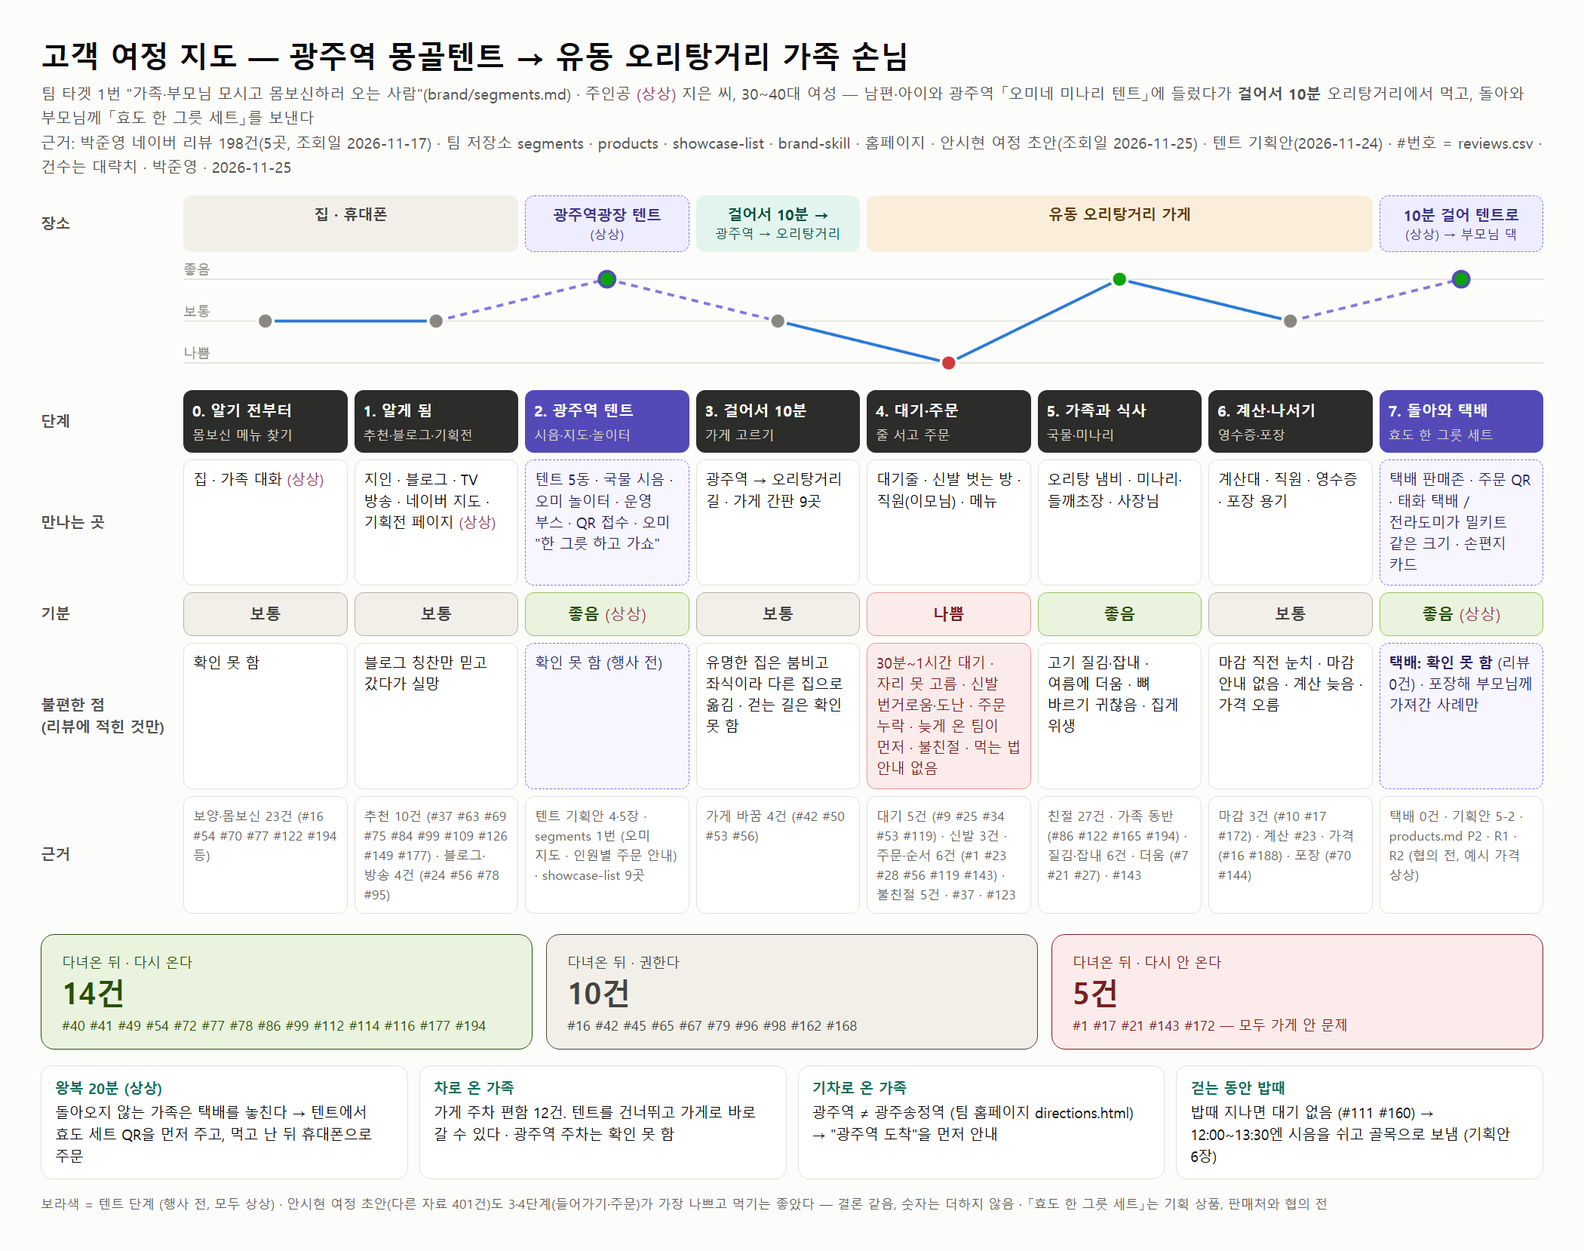
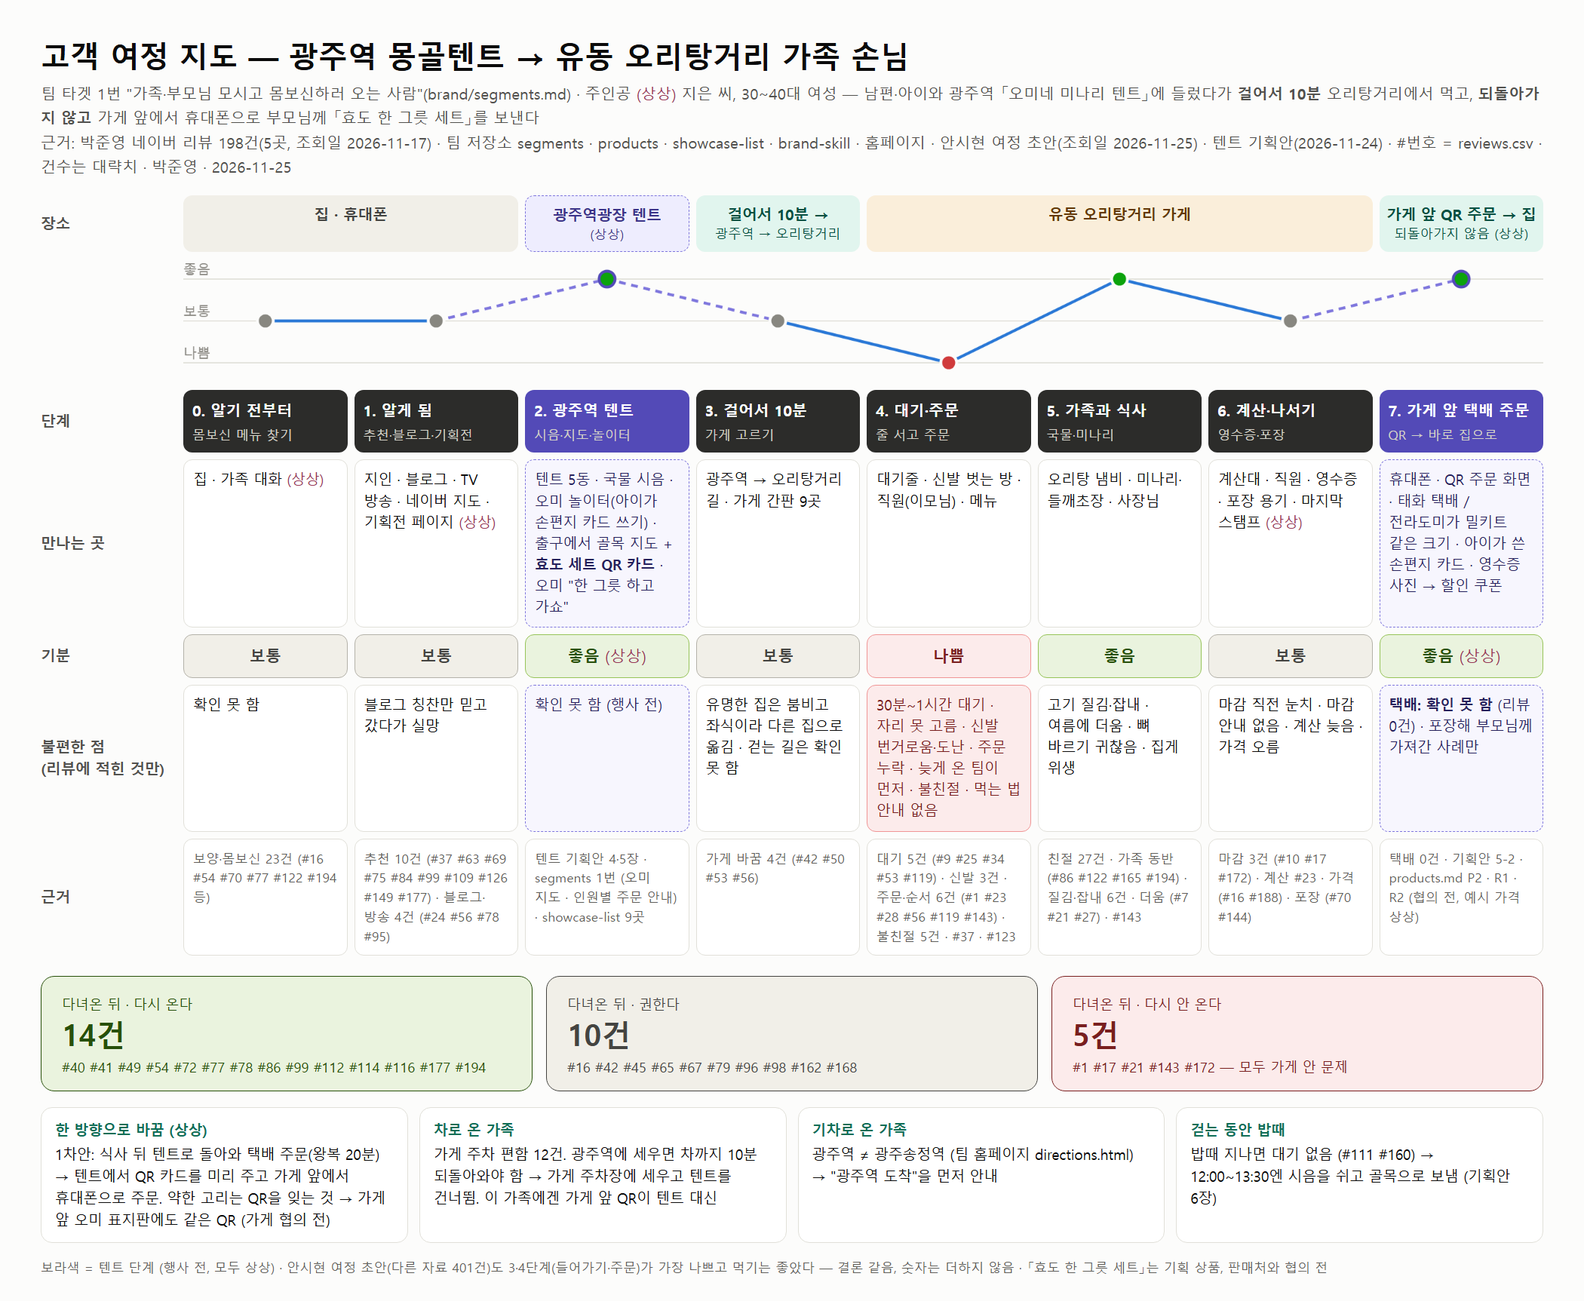
박준영 journey/my-journey 동선 변경 (텐트로 되돌아가지 않는 한 방향: 광주역 텐트 → 가게 → 가게 앞 QR 택배 주문 → 집)

diff --git a/박준영/journey/my-journey.html b/박준영/journey/my-journey.html
@@ -32,14 +32,14 @@ h1{font-size:26px;margin:0 0 6px}
 .foot{font-size:11.5px;color:#5F5E5A;margin-top:12px;line-height:1.6}
 </style></head><body><div id="cap">
 <h1>고객 여정 지도 — 광주역 몽골텐트 → 유동 오리탕거리 가족 손님</h1>
-<p class="sub">팀 타겟 1번 "가족·부모님 모시고 몸보신하러 오는 사람"(brand/segments.md) · 주인공 <span class="sang">(상상)</span> 지은 씨, 30~40대 여성 — 남편·아이와 광주역 「오미네 미나리 텐트」에 들렀다가 <b>걸어서 10분</b> 오리탕거리에서 먹고, 돌아와 부모님께 「효도 한 그릇 세트」를 보낸다<br>근거: 박준영 네이버 리뷰 198건(5곳, 조회일 2026-11-17) · 팀 저장소 segments · products · showcase-list · brand-skill · 홈페이지 · 안시현 여정 초안(조회일 2026-11-25) · 텐트 기획안(2026-11-24) · #번호 = reviews.csv · 건수는 대략치 · 박준영 · 2026-11-25</p>
+<p class="sub">팀 타겟 1번 "가족·부모님 모시고 몸보신하러 오는 사람"(brand/segments.md) · 주인공 <span class="sang">(상상)</span> 지은 씨, 30~40대 여성 — 남편·아이와 광주역 「오미네 미나리 텐트」에 들렀다가 <b>걸어서 10분</b> 오리탕거리에서 먹고, <b>되돌아가지 않고</b> 가게 앞에서 휴대폰으로 부모님께 「효도 한 그릇 세트」를 보낸다<br>근거: 박준영 네이버 리뷰 198건(5곳, 조회일 2026-11-17) · 팀 저장소 segments · products · showcase-list · brand-skill · 홈페이지 · 안시현 여정 초안(조회일 2026-11-25) · 텐트 기획안(2026-11-24) · #번호 = reviews.csv · 건수는 대략치 · 박준영 · 2026-11-25</p>
 <div class="route">
 <div class="h">장소</div>
 <div class="loc home" style="grid-column:span 2">집 · 휴대폰</div>
 <div class="loc tent">광주역광장 텐트<small>(상상)</small></div>
 <div class="loc walk">걸어서 10분 →<small>광주역 → 오리탕거리</small></div>
 <div class="loc shop" style="grid-column:span 3">유동 오리탕거리 가게</div>
-<div class="loc tent">10분 걸어 텐트로<small>(상상) → 부모님 댁</small></div>
+<div class="loc walk">가게 앞 QR 주문 → 집<small>되돌아가지 않음 (상상)</small></div>
 </div>
 <div style="position:relative;height:110px;margin:0 0 6px 126px"><canvas id="c"></canvas></div>
 <div class="grid">
@@ -51,17 +51,17 @@ h1{font-size:26px;margin:0 0 6px}
 <div class="st">4. 대기·주문<small>줄 서고 주문</small></div>
 <div class="st">5. 가족과 식사<small>국물·미나리</small></div>
 <div class="st">6. 계산·나서기<small>영수증·포장</small></div>
-<div class="st t">7. 돌아와 택배<small>효도 한 그릇 세트</small></div>
+<div class="st t">7. 가게 앞 택배 주문<small>QR → 바로 집으로</small></div>
 
 <div class="h">만나는 곳</div>
 <div class="c">집 · 가족 대화 <span class="sang">(상상)</span></div>
 <div class="c">지인 · 블로그 · TV 방송 · 네이버 지도 · 기획전 페이지 <span class="sang">(상상)</span></div>
-<div class="c tent">텐트 5동 · 국물 시음 · 오미 놀이터 · 운영 부스 · QR 접수 · 오미 "한 그릇 하고 가쇼"</div>
+<div class="c tent">텐트 5동 · 국물 시음 · 오미 놀이터(아이가 손편지 카드 쓰기) · 출구에서 골목 지도 + <b>효도 세트 QR 카드</b> · 오미 "한 그릇 하고 가쇼"</div>
 <div class="c">광주역 → 오리탕거리 길 · 가게 간판 9곳</div>
 <div class="c">대기줄 · 신발 벗는 방 · 직원(이모님) · 메뉴</div>
 <div class="c">오리탕 냄비 · 미나리·들깨초장 · 사장님</div>
-<div class="c">계산대 · 직원 · 영수증 · 포장 용기</div>
-<div class="c tent">택배 판매존 · 주문 QR · 태화 택배 / 전라도미가 밀키트 같은 크기 · 손편지 카드</div>
+<div class="c">계산대 · 직원 · 영수증 · 포장 용기 · 마지막 스탬프 <span class="sang">(상상)</span></div>
+<div class="c tent">휴대폰 · QR 주문 화면 · 태화 택배 / 전라도미가 밀키트 같은 크기 · 아이가 쓴 손편지 카드 · 영수증 사진 → 할인 쿠폰</div>
 
 <div class="h">기분</div>
 <div class="c mid mood">보통</div>
@@ -99,8 +99,8 @@ h1{font-size:26px;margin:0 0 6px}
 <div class="end bad"><span>다녀온 뒤 · 다시 안 온다</span><b>5건</b><span>#1 #17 #21 #143 #172 — 모두 가게 안 문제</span></div>
 </div>
 <div class="notes">
-<div class="note"><b>왕복 20분 (상상)</b>돌아오지 않는 가족은 택배를 놓친다 → 텐트에서 효도 세트 QR을 먼저 주고, 먹고 난 뒤 휴대폰으로 주문</div>
-<div class="note"><b>차로 온 가족</b>가게 주차 편함 12건. 텐트를 건너뛰고 가게로 바로 갈 수 있다 · 광주역 주차는 확인 못 함</div>
+<div class="note"><b>한 방향으로 바꿈 (상상)</b>1차안: 식사 뒤 텐트로 돌아와 택배 주문(왕복 20분) → 텐트에서 QR 카드를 미리 주고 가게 앞에서 휴대폰으로 주문. 약한 고리는 QR을 잊는 것 → 가게 앞 오미 표지판에도 같은 QR (가게 협의 전)</div>
+<div class="note"><b>차로 온 가족</b>가게 주차 편함 12건. 광주역에 세우면 차까지 10분 되돌아와야 함 → 가게 주차장에 세우고 텐트를 건너뜀. 이 가족에겐 가게 앞 QR이 텐트 대신</div>
 <div class="note"><b>기차로 온 가족</b>광주역 ≠ 광주송정역 (팀 홈페이지 directions.html) → "광주역 도착"을 먼저 안내</div>
 <div class="note"><b>걷는 동안 밥때</b>밥때 지나면 대기 없음 (#111 #160) → 12:00~13:30엔 시음을 쉬고 골목으로 보냄 (기획안 6장)</div>
 </div>

diff --git a/박준영/journey/my-journey.md b/박준영/journey/my-journey.md
@@ -2,9 +2,10 @@
 
 - 작성: 박준영 · 2026-11-25 · **팀 확인 전 초안**
 - 고객: 팀 타겟 고객 1번 **"가족·부모님 모시고 몸보신하러 오는 사람"** (`brand/segments.md`)
-  - 그중 이 문서의 주인공 (상상): **지은 씨, 30~40대 여성**. 남편·아이를 데리고 광주역광장 「오미네 미나리 텐트」에 들렀다가 **걸어서 10분** 거리의 오리탕거리 가게에서 먹고, 다시 광주역으로 돌아와 부모님께 「효도 한 그릇 세트」를 보낸다.
+  - 그중 이 문서의 주인공 (상상): **지은 씨, 30~40대 여성**. 남편·아이를 데리고 광주역광장 「오미네 미나리 텐트」에 들렀다가 **걸어서 10분** 거리의 오리탕거리 가게에서 먹고, **광주역으로 돌아오지 않고** 가게를 나서며 휴대폰으로 부모님께 「효도 한 그릇 세트」를 보낸다.
   - 나이·성별은 팀원 4명 자료 모두에 없어서 (`brand/segments.md` "자료에 없어서 쓰지 않은 것") 지은 씨는 **(상상)** 인물이다.
-- 동선: **광주역광장 텐트 ⇄ 도보 약 10분 ⇄ 유동 오리탕거리 가게**
+- 동선: **광주역광장 텐트 → 도보 약 10분 → 유동 오리탕거리 가게 → 집** (한 방향, 되돌아가지 않음)
+  - 2026-11-25 1차안은 식사 뒤 텐트로 다시 돌아와 택배를 주문하는 동선이었다. 왕복 20분이 불편해서 **텐트에서 받은 QR 카드로 어디서나 주문**하도록 바꿨다.
   - 거리 근거: 박준영 확인 "도보 10분 정도" · `박준영/design/my-tent-program-plan.md`의 네이버 블로그 후기 "도보 10분" · "도보 13분" (요약만 확인, 조회일 2026-11-24). 지도로 다시 재지는 않았다.
 - 표시 규칙
   - `#번호`는 박준영 `reviews.csv`의 번호 열이다. 건수는 단어 검색 뒤 읽어서 추린 **대략치**다.
@@ -28,8 +29,18 @@
 ## 동선 한눈에
 
 ```
-[집] ─0·1─▶ [광주역광장 텐트] ─2─▶ 걸어서 10분 ─3─▶ [오리탕거리 가게] ─4·5·6─▶ 걸어서 10분 ─▶ [광주역광장 텐트] ─7─▶ [집 · 부모님 댁]
+[집] ─0·1─▶ [광주역광장 텐트] ─2─▶ 걸어서 10분 ─3─▶ [오리탕거리 가게] ─4·5·6─▶ 가게 앞에서 QR 주문 ─7─▶ [집] · [부모님 댁으로 택배]
 ```
+
+### 한 방향으로 만들려고 바꾼 것 (상상)
+
+| 1차안 (되돌아감) | 바꾼 안 (한 방향) | 왜 |
+|---|---|---|
+| 식사 뒤 텐트 택배 판매존에서 주문 | 텐트에서 **「효도 한 그릇 세트」 QR 카드**를 미리 받고, 식사 뒤 **가게 앞에서 휴대폰으로** 주문 | 택배는 판매처 주문 QR 안내라서 (기획안 5-2) 텐트에 있지 않아도 주문할 수 있다 |
+| 손편지 카드를 택배 판매존에서 받음 | 아이가 **오미 놀이터에서 할머니·할아버지께 손편지 카드를 미리 쓴다** → 주문할 때 카드 사진을 올림 | 놀이터에서 머무는 시간이 택배 준비가 된다 |
+| 골목 가게 영수증을 텐트에 보여 주면 오미 뽑기 1번 더 | 텐트에서는 **도착 전에** 뽑기, 영수증은 QR 페이지에 사진으로 올리면 **묶음 예약 할인 쿠폰**을 받음 | 영수증 때문에 되돌아올 일이 없다 |
+| 스탬프 4개(텐트 3 + 가게 1)를 모아 운영 부스에서 키링 추첨 | 마지막 스탬프는 **가게**에서 찍고, 추첨 응모는 QR 페이지에서 | 끝나는 곳이 가게가 된다 |
+| 텐트 배치 ① 운영 → ② 시음·택배 → ③ 미나리 → ④ 놀이터 → ⑤ 쉼 → 골목 입구 | 배치는 그대로. **⑤ 쉼 텐트 출구에서 골목 지도 · QR 카드를 받고 바로 골목으로** | 기획안 4장 배치가 이미 "마지막 텐트에서 바로 골목 쪽으로" 나가게 되어 있다 |
 
 ## 여정 표
 
@@ -37,12 +48,12 @@
 |---|---|---|---|:---:|---|---|
 | 0. 알기 전부터 | 집 | 아이가 아프거나 부모님께 든든한 한 그릇을 드리고 싶어 가족 몸보신 메뉴를 찾는다 | 집 · 가족 대화 (상상) | 보통 | 확인 못 함 | 보양·몸보신·건강 언급 23건 (#16 #54 #70 #77 #122 #194 등) |
 | 1. 알게 됨 | 집 · 휴대폰 | 지인 추천 · 블로그 · 방송으로 오리탕거리를 알고, 기획전 페이지에서 주말 광주역 텐트 소식을 본다 (상상) | 지인 · 블로그 · TV 방송 · 네이버 지도 · 기획전 페이지 (상상) | 보통 | 블로그 칭찬만 믿고 갔다가 실망 | 지인·현지인 추천 10건 (#37 #63 #69 #75 #84 #99 #109 #126 #149 #177) · 블로그·방송 4건 (#24 #56 #78 #95) · 실망 #24 #37 |
-| 2. 광주역 텐트 (상상) | 광주역광장 | 국물 한 모금 시음 · 아이는 오미 놀이터 · 운영 부스에서 **오미 골목 지도**(가게 9곳 같은 크기, 대기·입식/좌식·주차)와 **인원별 주문 안내**(둘이면 반 마리, 넷이면 한 마리)를 받는다 | 몽골텐트 5동 · 오미 포토 자리 · QR 접수 화면 · 운영 스태프 · 오미 말투 ③ "한 그릇 하고 가쇼" | 좋음 (상상) | 확인 못 함 (행사 전) | 기획안 4 · 5장 · `segments.md` 1번 "우리가 해 줄 수 있는 것" · `showcase-list.md` 3번 |
+| 2. 광주역 텐트 (상상) | 광주역광장 | 국물 한 모금 시음 · 아이는 오미 놀이터에서 부모님께 손편지 카드 쓰기 · 오미 뽑기 · 출구에서 **오미 골목 지도**(가게 9곳 같은 크기, 대기·입식/좌식·주차), **인원별 주문 안내**(둘이면 반 마리, 넷이면 한 마리), **「효도 한 그릇 세트」 QR 카드**를 받는다 | 몽골텐트 5동 · 오미 포토 자리 · QR 접수 화면 · 운영 스태프 · 오미 말투 ③ "한 그릇 하고 가쇼" | 좋음 (상상) | 확인 못 함 (행사 전) | 기획안 4 · 5장 · `segments.md` 1번 "우리가 해 줄 수 있는 것" · `showcase-list.md` 3번 |
 | 3. 걸어서 10분 · 가게 고르기 | 광주역 → 오리탕거리 | 지도를 보며 아이와 걷고, 거리에서 갈 가게를 정한다 | 광주역 → 메가커피·NC백화점 사이 길 → 오리탕거리 (기획안, 요약만 확인) · 가게 간판 | 보통 | 유명한 집은 손님이 많고 좌식이라 다른 집으로 옮김. 걷는 길 불편은 확인 못 함 | 가게 바꿈 4건 (#42 #50 #53 #56) |
 | 4. 대기 · 주문 | 오리탕거리 가게 | 줄을 서고, 반마리·한마리를 주문하고 기다린다 | 대기줄 · 신발 벗는 방 · 직원(이모님) · 메뉴 · 버너 | **나쁨** | 30분~1시간 대기, 웨이팅 관리 안 됨, 자리 못 고름, 신발 번거로움·도난 / 주문 누락, 늦게 온 팀이 먼저 받음, 여러 번 불러야 함, 불친절, 먹는 방법 안내 없음, 반마리 두 개 권유 실랑이 | 대기 5건 (#9 #25 #34 #53 #119) · 신발 3건 (#5 #34 #37) · 주문·순서 6건 (#1 #23 #28 #56 #119 #143) · 불친절 5건 (#1 #17 #21 #28 #42) · 안내 없음 #37 · 반마리 #123 |
 | 5. 가족과 식사 | 오리탕거리 가게 | 국물·미나리·들깨초장을 아이와 나눠 먹는다 | 식탁 · 오리탕 냄비 · 미나리·들깨초장 · 사장님 | **좋음** | 고기 질김·잡내, 여름에 덥고 에어컨 약함, 뼈 바르기 귀찮고 뼈그릇 없음, 집게 위생 | 친절 27건 · 아이·가족 동반 만족 (#86 #122 #165 #194) · 질김·잡내 판정 맞음 6건 (report.md [3]) · 더움 (#7 #21 #27) · 뼈 (#37 #159) · #143 |
-| 6. 계산 · 나서기 | 오리탕거리 가게 | 계산하고 영수증을 챙긴다. 남으면 포장한다 | 계산대 · 직원 · 영수증 · 포장 용기 | 보통 | 마감·브레이크타임 직전 눈치, 마감 안내 없음, 계산하러 여러 번 불러야 함, 가격 오름 | 마감 3건 (#10 #17 #172) · 계산 #23 · 가격 (#16 #188) · 포장 2건 (#70 #144) |
-| 7. 광주역으로 돌아와 택배 (상상) | 광주역광장 → 집 · 부모님 댁 | 다시 10분 걸어 텐트로 와서 영수증으로 오미 뽑기 1번 더 · 택배 판매존에서 **「효도 한 그릇 세트」**(실존 택배 1개 + 미나리 먼저 세트 + 손편지 카드)로 "부모님 댁으로 보내기" | 택배 판매존 · 판매처 주문 QR 화면 · 태화오리탕 택배 / 전라도미가 밀키트 (**같은 크기로** 나란히) · 손편지 카드 | 좋음 (상상) | 택배: **확인 못 함** (리뷰에 '택배' 0건). 포장해서 부모님께 가져간 사례만 있음 | 포장 #70 (양가부모님 몸보신용) · 택배 0건 · 기획안 5-2 · `products.md` P2 · R1 · R2 |
+| 6. 계산 · 나서기 | 오리탕거리 가게 | 계산하고 영수증을 챙긴다. 남으면 포장한다. 마지막 스탬프를 찍는다 (상상) | 계산대 · 직원 · 영수증 · 포장 용기 · 스탬프 카드 (상상) | 보통 | 마감·브레이크타임 직전 눈치, 마감 안내 없음, 계산하러 여러 번 불러야 함, 가격 오름 | 마감 3건 (#10 #17 #172) · 계산 #23 · 가격 (#16 #188) · 포장 2건 (#70 #144) |
+| 7. 가게 앞에서 택배 주문 · 집으로 (상상) | 가게 앞 → 집 · 부모님 댁 | 가게를 나서며 텐트에서 받은 QR 카드를 찍어 **「효도 한 그릇 세트」**(실존 택배 1개 + 미나리 먼저 세트 + 손편지 카드)를 "부모님 댁으로 보내기"로 주문 · 영수증 사진을 올려 묶음 예약 할인 쿠폰을 받고 · 텐트로 돌아가지 않고 집으로 | 휴대폰 · QR 주문 화면 · 태화오리탕 택배 / 전라도미가 밀키트 (**같은 크기로** 나란히) · 아이가 쓴 손편지 카드 | 좋음 (상상) | 택배: **확인 못 함** (리뷰에 '택배' 0건). 포장해서 부모님께 가져간 사례만 있음 | 포장 #70 (양가부모님 몸보신용) · 택배 0건 · 기획안 5-2 · `products.md` P2 · R1 · R2 |
 
 - 「효도 한 그릇 세트」는 직접 구성한 **기획 상품**이고 가격은 예시 가격 (상상)이다. 안의 택배는 판매처와 **협의 전**이다 (`design/products.md`).
 
@@ -62,8 +73,9 @@
 
 | 생각할 점 | 내용 | 근거 |
 |---|---|---|
-| 왕복 20분 | 텐트 → 가게 → 텐트로 돌아오면 아이와 왕복 약 20분 걷는다. 택배를 텐트에서만 받으면 돌아오지 않는 가족은 놓친다 → 텐트에서 먼저 「효도 한 그릇 세트」 QR을 주고, 가게에서 먹고 난 뒤 휴대폰으로 주문하게 하는 순서도 생각 (상상) | 기획안 1장 유입 흐름 |
-| 차로 온 가족 | 리뷰에는 가게 전용주차장이 편하다는 말이 많다. 차로 온 가족은 광주역에 따로 세우고 걷거나, 텐트를 건너뛰고 가게로 바로 갈 수 있다 | 주차 편함 12건 (#5 #16 #65 #70 #98 #100 #112 #116 #133 #159 #188 #193) · 광주역 주차는 확인 못 함 |
+| 한 방향 10분 (바꾼 점) | 되돌아가지 않으니 아이와 걷는 길은 10분 한 번이다. 대신 택배 주문은 손님이 휴대폰으로 직접 해야 해서, **QR 카드를 잃어버리거나 잊으면 주문이 빠진다** → 가게 앞 오미 표지판에도 같은 QR (가게 협의 전, 상상) | 기획안 1장 · 5-2 (택배는 판매처 주문 QR 안내) |
+| 택배 주문 수를 세는 법 | 텐트에서 바로 사지 않으니 QR 스캔 수로만 센다 (기획안 11장 "택배 주문 QR 스캔 수"). 실제 주문 수는 판매처와 협의해야 알 수 있다 | 기획안 11장 |
+| 차로 온 가족 | 리뷰에는 가게 전용주차장이 편하다는 말이 많다. 한 방향 동선이면 광주역에 세운 차까지 다시 10분 걸어와야 한다 → 차로 온 가족은 가게 주차장에 세우고 텐트를 건너뛸 수 있다. 이 가족에게는 가게 앞 QR 표지판이 텐트 대신이다 (상상) | 주차 편함 12건 (#5 #16 #65 #70 #98 #100 #112 #116 #133 #159 #188 #193) · 광주역 주차는 확인 못 함 |
 | 기차로 온 가족 | 광주역과 광주송정역은 다른 역이다. 송정역에 내리면 텐트까지 10분이 아니다 → 기획전 페이지에 "광주역 도착"을 먼저 안내 | 팀 홈페이지 `directions.html` |
 | 걷는 동안 밥때가 됨 | 10분 걷는 사이 점심 줄이 길어질 수 있다. 텐트에서 "밥때는 붐벼요"라고 알려 주고 시간을 맞춰 보낸다 (기획안 6장: 12:00~13:30은 시음을 쉬고 골목으로 안내) | 밥때 지나 가면 대기 없음 (#111 #160) · 대기 5건 |
 | 날씨 | 추운 날·더운 날 아이와 10분 걷기는 부담이다. 기획안은 봄·가을 주말로 잡았다 | 더움 (#7 #21 #27) · 걷는 길 날씨 불편은 확인 못 함 |
@@ -72,8 +84,8 @@
 
 1. **기분이 가장 나쁜 곳은 4단계(가게 안 대기·주문)다.** 다시 안 온다 5건은 모두 가게 안 문제(응대·마감·위생)다. 텐트가 도울 수 있는 것은 덜 붐비는 시간에 맞춰 보내기, 인원별 주문 안내, 먹는 법을 미리 맛보게 하기다.
 2. **안시현 초안과 결론이 같다.** 안시현 초안(다른 자료, 리뷰 401건)도 "3. 들어가기 · 4. 주문·요청"이 가장 나빴고 먹기는 좋았다. 서로 다른 자료에서 같은 결과가 나왔다 (숫자는 더하지 않음).
-3. **텐트는 2단계(멈춤)와 7단계(택배)를 새로 만든다 (상상).** 리뷰로 확인 못 한 택배 효도 수요를 「효도 한 그릇 세트」로 처음 시험해 볼 수 있는 자리다.
-4. **10분 거리는 '돌아오는 길'이 약한 고리다 (상상).** 가게에서 바로 집에 가는 가족이 많으면 7단계 택배 주문이 줄 수 있다.
+3. **텐트는 2단계(멈춤)를 새로 만들고, 7단계(택배)는 텐트에서 준비만 시킨다 (상상).** 손편지 카드와 QR 카드를 텐트에서 미리 받아 두고, 주문은 가게를 나서며 한다. 리뷰로 확인 못 한 택배 효도 수요를 처음 시험해 볼 수 있다.
+4. **한 방향 동선의 약한 고리는 'QR 카드를 잊는 것'이다 (상상).** 되돌아오는 불편은 없어졌지만, 텐트에서 사지 않으니 주문을 잊을 수 있다. 가게 앞 표지판과 아이가 쓴 손편지 카드가 주문을 떠올리게 하는 장치다.
 
 ## 한계
 
